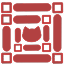
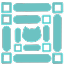
fix #416: fix paws for solo and progressive modes

diff --git a/packages/dls/src/components/icons/soloPaw/index.tsx b/packages/dls/src/components/icons/soloPaw/index.tsx
@@ -1,0 +1,58 @@
+interface SoloPawProps {
+  fill?: string
+  width?: number
+  height?: number
+}
+
+export const SoloPaw = ({
+  fill = '#1D1A1A',
+  width = 100,
+  height = 100,
+}: SoloPawProps) => {
+  return (
+    <svg
+      fill="none"
+      height={height}
+      role="img"
+      viewBox="0 0 512 512"
+      width={width}
+      xmlns="http://www.w3.org/2000/svg"
+    >
+      <path
+        d="M0 0 C0.88042969 0.68449219 1.76085937 1.36898437 2.66796875 2.07421875 C6.23152664 5.01698934 9.02964 8.47493422 12 12 C12.70382812 12.79277344 13.40765625 13.58554687 14.1328125 14.40234375 C24.49130748 26.40303915 31.01073407 40.44989966 37 55 C37.36996094 55.83917969 37.73992187 56.67835938 38.12109375 57.54296875 C46.27391925 80.33464537 39.60547837 110.77459512 30 132 C19.46566761 153.56897609 3.48974785 172.35321784 -17 185 C-18.09828125 185.68578125 -19.1965625 186.3715625 -20.328125 187.078125 C-34.27223348 195.41912139 -49.27948363 201.02130467 -65 205 C-66.8253125 205.48146484 -66.8253125 205.48146484 -68.6875 205.97265625 C-88.51520272 210.34043912 -112.35884301 209.98616568 -132 205 C-133.18851562 204.74476563 -134.37703125 204.48953125 -135.6015625 204.2265625 C-169.17797317 196.38967007 -198.20722819 175.55013399 -216.34667969 146.37182617 C-230.14723557 123.32361308 -236.04184811 93.978802 -230.26953125 67.50390625 C-221.45550883 33.49830125 -197.93717579 5.09115015 -168.11547852 -12.609375 C-148.85454181 -23.6466737 -128.08558147 -29.90669143 -106 -32 C-104.73800781 -32.14566406 -103.47601563 -32.29132813 -102.17578125 -32.44140625 C-65.35001537 -36.11903132 -28.34687554 -22.92704652 0 0 Z M-99 -14 C-100.23471327 -11.82678686 -100.23471327 -11.82678686 -101.3125 -9.3125 C-103.62312946 -4.49695391 -106.30366461 -0.82481764 -110 3 C-110.78375 3.825 -111.5675 4.65 -112.375 5.5 C-121.9116338 14.58250838 -131.75307677 22.72898303 -143.8125 28.1953125 C-144.97394531 28.72398926 -146.13539063 29.25266602 -147.33203125 29.79736328 C-148.21246094 30.1942334 -149.09289062 30.59110352 -150 31 C-150.02469081 35.3782512 -150.04285557 39.75646567 -150.05493164 44.13476562 C-150.05996514 45.62468166 -150.06679242 47.11459274 -150.07543945 48.60449219 C-150.08754805 50.74415304 -150.09323807 52.88374868 -150.09765625 55.0234375 C-150.10289307 56.31169434 -150.10812988 57.59995117 -150.11352539 58.92724609 C-150.21542631 61.91405228 -150.21542631 61.91405228 -149 64 C-143.01265245 63.4817875 -138.32884612 61.66056733 -132.9375 59.0625 C-132.11056641 58.66788574 -131.28363281 58.27327148 -130.43164062 57.86669922 C-121.55082362 53.49315401 -112.94977584 48.12046315 -106 41 C-105.99668985 41.66298788 -105.99337971 42.32597576 -105.98996925 43.00905418 C-105.90882773 59.12441854 -105.81676464 75.23967945 -105.71247292 91.3549099 C-105.66230339 99.14804487 -105.61586109 106.94116909 -105.578125 114.734375 C-105.54523341 121.52516499 -105.5054181 128.31587261 -105.45720994 135.10657179 C-105.43191659 138.70379967 -105.41014385 142.30097271 -105.39665604 145.89826584 C-105.38148724 149.90934889 -105.35086414 153.92016841 -105.31884766 157.93115234 C-105.31668747 159.13020706 -105.31452728 160.32926178 -105.31230164 161.56465149 C-105.30113815 162.65282669 -105.28997467 163.74100189 -105.2784729 164.8621521 C-105.27294214 165.81159887 -105.26741138 166.76104565 -105.26171303 167.73926353 C-105.21399981 170.2000675 -105.21399981 170.2000675 -103 172 C-100.37039373 172.18742538 -97.84806665 172.25569353 -95.21875 172.23046875 C-94.44946167 172.23001053 -93.68017334 172.22955231 -92.88757324 172.2290802 C-91.26015685 172.22605753 -89.63274336 172.21817074 -88.00537109 172.20581055 C-85.50998723 172.18757299 -83.01497475 172.18530073 -80.51953125 172.18554688 C-78.94010095 172.18063093 -77.36067317 172.17480228 -75.78125 172.16796875 C-75.0322644 172.16685593 -74.28327881 172.1657431 -73.51159668 172.16459656 C-69.6278805 172.20071138 -69.6278805 172.20071138 -66 171 C-65.97667382 146.7658846 -65.95902221 122.53177087 -65.94818783 98.29764652 C-65.94302427 87.04616484 -65.93598044 75.79469011 -65.92456055 64.54321289 C-65.91461553 54.7402146 -65.90814701 44.93722135 -65.90591151 35.13421816 C-65.90460409 29.94019633 -65.90151629 24.74618893 -65.89426994 19.55217171 C-65.88751259 14.66936779 -65.88538245 9.78658432 -65.88689232 4.90377617 C-65.88661586 3.10619369 -65.88460905 1.30861056 -65.88079453 -0.4889679 C-65.87586172 -2.93215962 -65.87700017 -5.37527287 -65.87974548 -7.81846619 C-65.87683264 -8.53926973 -65.8739198 -9.26007327 -65.87091869 -10.00271934 C-65.59792824 -13.28290081 -65.59792824 -13.28290081 -67 -16 C-71.09742993 -16.21818246 -75.1980264 -16.18579116 -79.30078125 -16.18530273 C-81.35958694 -16.18748367 -83.41785212 -16.20562031 -85.4765625 -16.22460938 C-86.77078125 -16.22654297 -88.065 -16.22847656 -89.3984375 -16.23046875 C-90.59130371 -16.23457764 -91.78416992 -16.23868652 -93.01318359 -16.24291992 C-96.18338301 -16.2283302 -96.18338301 -16.2283302 -99 -14 Z"
+        fill={fill}
+        transform="translate(349,274)"
+      />
+      <path
+        d="M0 0 C1.35014179 4.05042537 0.20210859 5.82754682 -1.25 9.8125 C-6.06637282 23.64562885 -7.7580401 37.47637486 -9 52 C-8.01942627 51.98042236 -8.01942627 51.98042236 -7.01904297 51.96044922 C9.14862988 51.77290302 23.24426859 57.90383108 35 69 C46.79895201 81.07892714 54.08845612 96.71952005 58 113 C58.16226074 113.66483398 58.32452148 114.32966797 58.49169922 115.01464844 C65.45718466 145.0474639 61.61396096 178.29786387 46 205 C43.53929826 208.54302223 40.88278733 211.79434049 38 215 C37.45859375 215.63421875 36.9171875 216.2684375 36.359375 216.921875 C27.83064323 226.27863898 16.39567577 231.07108292 3.9453125 231.953125 C-12.03460463 232.20744729 -25.36998301 224.25447449 -36.55859375 213.47363281 C-58.07531777 191.47584383 -66.70997587 158.88009077 -67.25 128.875 C-66.87944489 109.75871586 -62.66260992 91.99391487 -52 76 C-51.6357813 73.34351601 -51.35423645 70.73013735 -51.125 68.0625 C-48.81361761 45.75530142 -36.60914016 28.5113461 -20 14 C-15.5048811 10.42136165 -10.77463792 7.19079919 -6 4 C-5.4234668 3.61457031 -4.84693359 3.22914062 -4.25292969 2.83203125 C-2.83655345 1.88612093 -1.41845982 0.94278296 0 0 Z"
+        fill={fill}
+        transform="translate(179,1)"
+      />
+      <path
+        d="M0 0 C19.08615702 6.78384586 36.99497419 26.58643512 46 44 C48.82528734 50.51535535 51.11085558 57.16532548 51.3125 64.3125 C51.61290303 69.68441301 54.43847258 72.3802521 57.87109375 76.31640625 C69.57326933 91.06758905 73.20377285 114.53361225 72 133 C71.9383667 133.96897217 71.9383667 133.96897217 71.87548828 134.95751953 C69.98412701 162.21608412 61.38304631 189.29710463 43 210 C42.33613281 210.76957031 41.67226563 211.53914062 40.98828125 212.33203125 C31.45474052 222.67618727 18.36018132 229.77442778 4.21313477 230.3984375 C-9.21552086 230.64964584 -18.76113094 226.54595589 -29 218 C-29.63550781 217.47792969 -30.27101563 216.95585937 -30.92578125 216.41796875 C-46.68279769 202.10987336 -53.8198008 178.53540009 -56 158 C-57.26928554 127.61195755 -54.59290065 97.08158029 -34 73 C-33.56558594 72.41089844 -33.13117188 71.82179688 -32.68359375 71.21484375 C-25.10630886 61.28520774 -12.94774199 54.84107665 -1 52 C2.66058055 51.56276744 6.32236073 51.25219994 10 51 C8.56861007 35.54176457 6.16516806 20.93448262 1.61669922 6.0769043 C1.01862605 4.06272836 0.49398312 2.04193139 0 0 Z"
+        fill={fill}
+        transform="translate(331,2)"
+      />
+      <path
+        d="M0 0 C-0.1861084 0.5993335 -0.3722168 1.19866699 -0.56396484 1.81616211 C-2.46200733 8.0211163 -4.12245823 14.25089708 -5.625 20.5625 C-5.8415625 21.44357422 -6.058125 22.32464844 -6.28125 23.23242188 C-8.47658602 32.41353394 -9.15239264 41.13760245 -9.0625 50.5625 C-9.05798828 51.47580078 -9.05347656 52.38910156 -9.04882812 53.33007812 C-9.0371874 55.55345738 -9.02083851 57.77669121 -9 60 C-8.4220166 59.83918945 -7.8440332 59.67837891 -7.24853516 59.51269531 C6.22342214 56.44091352 19.63460631 59.53920688 31.33984375 66.2890625 C49.28869425 77.8332571 58.02018799 98.00512708 62.72265625 118.0859375 C68.03315589 145.54318751 64.88060522 176.62971639 49.06640625 200.265625 C40.74765106 211.27342959 30.51296538 219.67193342 16.5546875 221.8125 C1.91152922 222.88722721 -10.01186953 217.42070598 -21 208 C-42.04194641 188.2573304 -51.15635533 158.98201346 -52.07348633 130.73681641 C-52.12511437 125.85040438 -51.79686276 121.10508539 -51.1875 116.25 C-51.10419434 115.56317139 -51.02088867 114.87634277 -50.93505859 114.16870117 C-50.35803071 109.7395253 -49.37023511 105.61090571 -48.125 101.3125 C-46.56395851 95.08378989 -47.76972569 90.8735806 -49.9375 84.93359375 C-51.30225596 81.16546241 -51.73356839 77.99647419 -52 74 C-52.0515625 73.34257812 -52.103125 72.68515625 -52.15625 72.0078125 C-52.95275789 53.88725796 -44.44319726 38.12076243 -32.80859375 24.96484375 C-31.8774152 23.97183173 -30.94093986 22.98376753 -30 22 C-29.20190918 21.15574463 -29.20190918 21.15574463 -28.38769531 20.29443359 C-24.19834141 15.97066828 -19.72444127 12.30686808 -14.875 8.75 C-14.18535156 8.234375 -13.49570312 7.71875 -12.78515625 7.1875 C-3.09685084 0 -3.09685084 0 0 0 Z"
+        fill={fill}
+        transform="translate(52,119)"
+      />
+      <path
+        d="M0 0 C4.33039362 1.49742583 7.87402113 3.77633536 11.5625 6.4375 C12.17383789 6.87852051 12.78517578 7.31954102 13.41503906 7.77392578 C31.93462592 21.38788412 47.56543288 38.63298309 51.6015625 61.90625 C52.87120882 71.76468026 51.36505248 81.45449124 48.38842773 90.95117188 C46.76082241 96.32075448 47.27253611 100.04003792 48.8125 105.375 C49.20374883 106.87121858 49.590502 108.36862025 49.97265625 109.8671875 C50.15586426 110.5797168 50.33907227 111.29224609 50.52783203 112.02636719 C56.75500698 138.05557208 48.13696937 169.33163024 34.75 191.75 C25.74437281 205.16737264 13.31185664 217.45497813 -2.8125 221.375 C-13.40914698 223.08306673 -23.74551227 221.48728134 -33 216 C-40.69586213 210.11437145 -47.04724164 203.37373578 -52 195 C-52.52078125 194.13375 -53.0415625 193.2675 -53.578125 192.375 C-66.69437312 168.52727614 -67.77182387 135.95752313 -60.65039062 110.16210938 C-56.29275348 95.67591022 -49.62349058 83.80539966 -39 73 C-38.3503125 72.33742188 -37.700625 71.67484375 -37.03125 70.9921875 C-26.6962192 61.20779359 -14.3120317 58.76127819 -0.5859375 58.83203125 C2.69421178 58.98567659 5.77904419 59.38058542 9 60 C9.52236583 41.63980848 7.62778453 24.97587056 2.0859375 7.44140625 C1.30412454 4.96379035 0.58204989 2.52868341 0 0 Z"
+        fill={fill}
+        transform="translate(460,119)"
+      />
+      <path
+        d="M0 0 C11.39464061 10.26490141 16.48202207 31.49377002 20 46 C20.17499023 46.69158203 20.34998047 47.38316406 20.53027344 48.09570312 C26.07868625 70.75080653 25.44565473 97.0022237 13.58984375 117.4296875 C5.75310468 129.84308219 -5.3057152 137.30705467 -19.46875 141.21875 C-29.26294759 143.38560787 -38.97277781 144.30073066 -49 143.875 C-49.6499292 143.85348877 -50.2998584 143.83197754 -50.96948242 143.80981445 C-64.68344125 142.93094707 -78.34479368 138.16081264 -91.38867188 134.10839844 C-93.78852549 133.36303447 -96.19089013 132.62623396 -98.59375 131.890625 C-100.14077371 131.41454547 -101.68765439 130.93800086 -103.234375 130.4609375 C-103.9426947 130.24319672 -104.6510144 130.02545593 -105.38079834 129.80111694 C-108.98899991 128.67790163 -112.51532217 127.46363225 -116 126 C-113.399448 124.63208794 -110.90791318 123.58512555 -108.0859375 122.7734375 C-68.13275802 110.93863007 -34.64064083 86.86376409 -14.12329102 50.17260742 C-6.08628609 35.13545596 -0.72189672 17.03676252 0 0 Z"
+        fill={fill}
+        transform="translate(403,368)"
+      />
+      <path
+        d="M0 0 C0.33 0 0.66 0 1 0 C1.22042969 1.63582031 1.22042969 1.63582031 1.4453125 3.3046875 C6.4962079 38.2423296 23.92886196 67.61359239 52 89 C69.04266113 101.63370742 87.41789748 109.4979041 107.84375 115.10546875 C110.93127899 115.98052338 113.96381617 116.96202752 117 118 C113.54253292 119.88443192 109.98992857 121.0510683 106.2421875 122.2421875 C105.25807137 122.5550898 105.25807137 122.5550898 104.2540741 122.87431335 C102.12941528 123.54676572 100.00269193 124.21220974 97.875 124.875 C96.78854691 125.21348465 96.78854691 125.21348465 95.68014526 125.55880737 C67.71506554 134.23503237 38.27895096 140.68438959 10.8671875 126.36328125 C-4.40529541 117.1040784 -11.77759057 103.95942962 -16 87 C-19.08388956 70.95596699 -18.0470809 52.80288734 -14 37 C-13.80132324 36.21463867 -13.60264648 35.42927734 -13.39794922 34.62011719 C-10.21791767 22.40974888 -5.7296677 11.22665853 0 0 Z"
+        fill={fill}
+        transform="translate(103,377)"
+      />
+    </svg>
+  )
+}

diff --git a/packages/dls/src/components/atoms/paws/index.tsx b/packages/dls/src/components/atoms/paws/index.tsx
@@ -1,4 +1,5 @@
 import { Paw } from '@/components/icons/paw'
+import { SoloPaw } from '@/components/icons/soloPaw'
 import styles from './index.module.css'
 
 interface PawsProps {
@@ -11,10 +12,15 @@ const difficultyPawCounter = {
   hard: 2,
   impossible: 3,
   nightmare: 4,
+  progressive: 3,
 }
 
 export default function Paws({ color, difficulty }: PawsProps) {
   const difficultyValue = difficulty.toLocaleLowerCase()
+
+  if (difficultyValue === 'solo')
+    return <SoloPaw fill={'var(--color-solo)'} height={20} width={20} />
+
   if (difficultyValue in difficultyPawCounter === false) return null
 
   return (
@@ -25,14 +31,17 @@ export default function Paws({ color, difficulty }: PawsProps) {
             difficultyValue as keyof typeof difficultyPawCounter
           ],
         ),
-      ].map((_, rowIndex) => (
-        <Paw
-          key={rowIndex}
-          fill={color || `var(--color-${difficultyValue})`}
-          height={16}
-          width={16}
-        />
-      ))}
+      ].map((_, rowIndex) => {
+        const size = difficultyValue === 'progressive' ? 16 + rowIndex * 2 : 20
+        return (
+          <Paw
+            key={rowIndex}
+            fill={color || `var(--color-${difficultyValue})`}
+            height={size}
+            width={size}
+          />
+        )
+      })}
     </div>
   )
 }

diff --git a/packages/dls/src/components/organisms/bestGamesWithControls/components/cards/components/desktopCard/index.tsx b/packages/dls/src/components/organisms/bestGamesWithControls/components/cards/components/desktopCard/index.tsx
@@ -67,15 +67,18 @@ export default function DesktopCard({
                   </button>
                 )}
               </div>
-
               {showRoundTimes && roundOneTime && (
                 <div className={styles.wrapper}>
                   <small>Round times:</small>
                   <small>{formatSecondsAsTime(roundOneTime)}</small>
                   <small>{formatSecondsAsTime(roundTwoTime)}</small>
                   <small>{formatSecondsAsTime(roundThreeTime)}</small>
-                  <small>{formatSecondsAsTime(roundFourTime)}</small>
-                  <small>{formatSecondsAsTime(roundFiveTime)}</small>
+                  {!!roundFourTime && (
+                    <small>{formatSecondsAsTime(roundFourTime)}</small>
+                  )}
+                  {!!roundFiveTime && (
+                    <small>{formatSecondsAsTime(roundFiveTime)}</small>
+                  )}
                 </div>
               )}
               {showDifficulty && (

diff --git a/packages/dls/src/components/templates/home/components/heroBanner/index.module.css b/packages/dls/src/components/templates/home/components/heroBanner/index.module.css
@@ -9,18 +9,19 @@
   width: 100%;
 }
 
-@media (max-width: 600px) {
-  .wrapper {
-    padding-top: 108px;
-  }
-}
-
 .content {
   align-items: center;
   display: flex;
   flex-direction: column;
   max-width: 1000px;
   width: 100%;
+}
+
+@media (max-width: 600px) {
+  .content {
+    justify-content: center;
+    min-height: calc(100vh - 314px);
+  }
 }
 
 .title {
@@ -47,7 +48,6 @@
 .playerFinderWrapper {
   align-items: center;
   display: flex;
-  flex: 1;
   flex-direction: column;
   justify-content: center;
   padding-bottom: 16px;

diff --git a/apps/admin/next.config.js b/apps/admin/next.config.js
@@ -15,7 +15,8 @@ const securityHeaders = [
     key: 'Content-Security-Policy',
     value: [
       "default-src 'self'",
-      "script-src 'self' 'unsafe-inline'",
+      "script-src 'self' 'unsafe-inline'" +
+        (process.env.NODE_ENV === 'development' ? " 'unsafe-eval'" : ''),
       "style-src 'self' 'unsafe-inline'",
       "img-src 'self' data: https://cdn.discordapp.com",
       "connect-src 'self' https://rkrapi-801419031002.us-east1.run.app",

diff --git a/apps/web/next.config.js b/apps/web/next.config.js
@@ -15,7 +15,8 @@ const securityHeaders = [
     key: 'Content-Security-Policy',
     value: [
       "default-src 'self'",
-      "script-src 'self' 'unsafe-inline'",
+      "script-src 'self' 'unsafe-inline'" +
+        (process.env.NODE_ENV === 'development' ? " 'unsafe-eval'" : ''),
       "style-src 'self' 'unsafe-inline'",
       "img-src 'self' data: https://cdn.discordapp.com",
       "connect-src 'self' https://rkrapi-801419031002.us-east1.run.app",

diff --git a/apps/admin/theme/dark.css b/apps/admin/theme/dark.css
@@ -76,6 +76,8 @@
     --color-impossible: #d10a0a;
     --color-nightmare: #9343c4;
     --color-normal: #cfd324;
+    --color-progressive: #34c759;
+    --color-solo: #0088ff;
     --color-patriotic-tendrils-external: #c22513;
     --color-patriotic-tendrils-internal: #3f4fe0;
     --discord-brand: #5865f2;

diff --git a/apps/admin/theme/light.css b/apps/admin/theme/light.css
@@ -76,6 +76,8 @@
     --color-impossible: #850000;
     --color-nightmare: #9f41b2;
     --color-normal: #ff6c00;
+    --color-progressive: #1a7a35;
+    --color-solo: #0088ff;
     --color-patriotic-tendrils-external: #f7020f;
     --color-patriotic-tendrils-internal: #127dff;
     --discord-brand: #5865f2;

diff --git a/apps/web/theme/dark.css b/apps/web/theme/dark.css
@@ -76,6 +76,8 @@
     --color-impossible: #d10a0a;
     --color-nightmare: #9343c4;
     --color-normal: #cfd324;
+    --color-progressive: #34c759;
+    --color-solo: #0088ff;
     --color-patriotic-tendrils-external: #c22513;
     --color-patriotic-tendrils-internal: #3f4fe0;
     --discord-brand: #5865f2;

diff --git a/apps/web/theme/light.css b/apps/web/theme/light.css
@@ -76,6 +76,8 @@
     --color-impossible: #850000;
     --color-nightmare: #9f41b2;
     --color-normal: #ff6c00;
+    --color-progressive: #1a7a35;
+    --color-solo: #0088ff;
     --color-patriotic-tendrils-external: #f7020f;
     --color-patriotic-tendrils-internal: #127dff;
     --discord-brand: #5865f2;

diff --git a/packages/dls/src/components/molecules/table/components/tableData/components/tooltip/index.tsx b/packages/dls/src/components/molecules/table/components/tableData/components/tooltip/index.tsx
@@ -50,6 +50,10 @@ export default function Tooltip({
     return <>{dataToRender[difficulty]}</>
   }
 
+  if (!best && !children) {
+    return <>--</>
+  }
+
   return (
     <TooltipComponent
       ariaLabel="Extended stats"

diff --git a/packages/dls/src/components/molecules/table/components/tableData/components/difficulty/index.tsx b/packages/dls/src/components/molecules/table/components/tableData/components/difficulty/index.tsx
@@ -1,5 +1,5 @@
-import styles from './index.module.css'
 import Paws from '@/components/atoms/paws'
+import styles from './index.module.css'
 
 interface DifficultyDataProps {
   data: string
